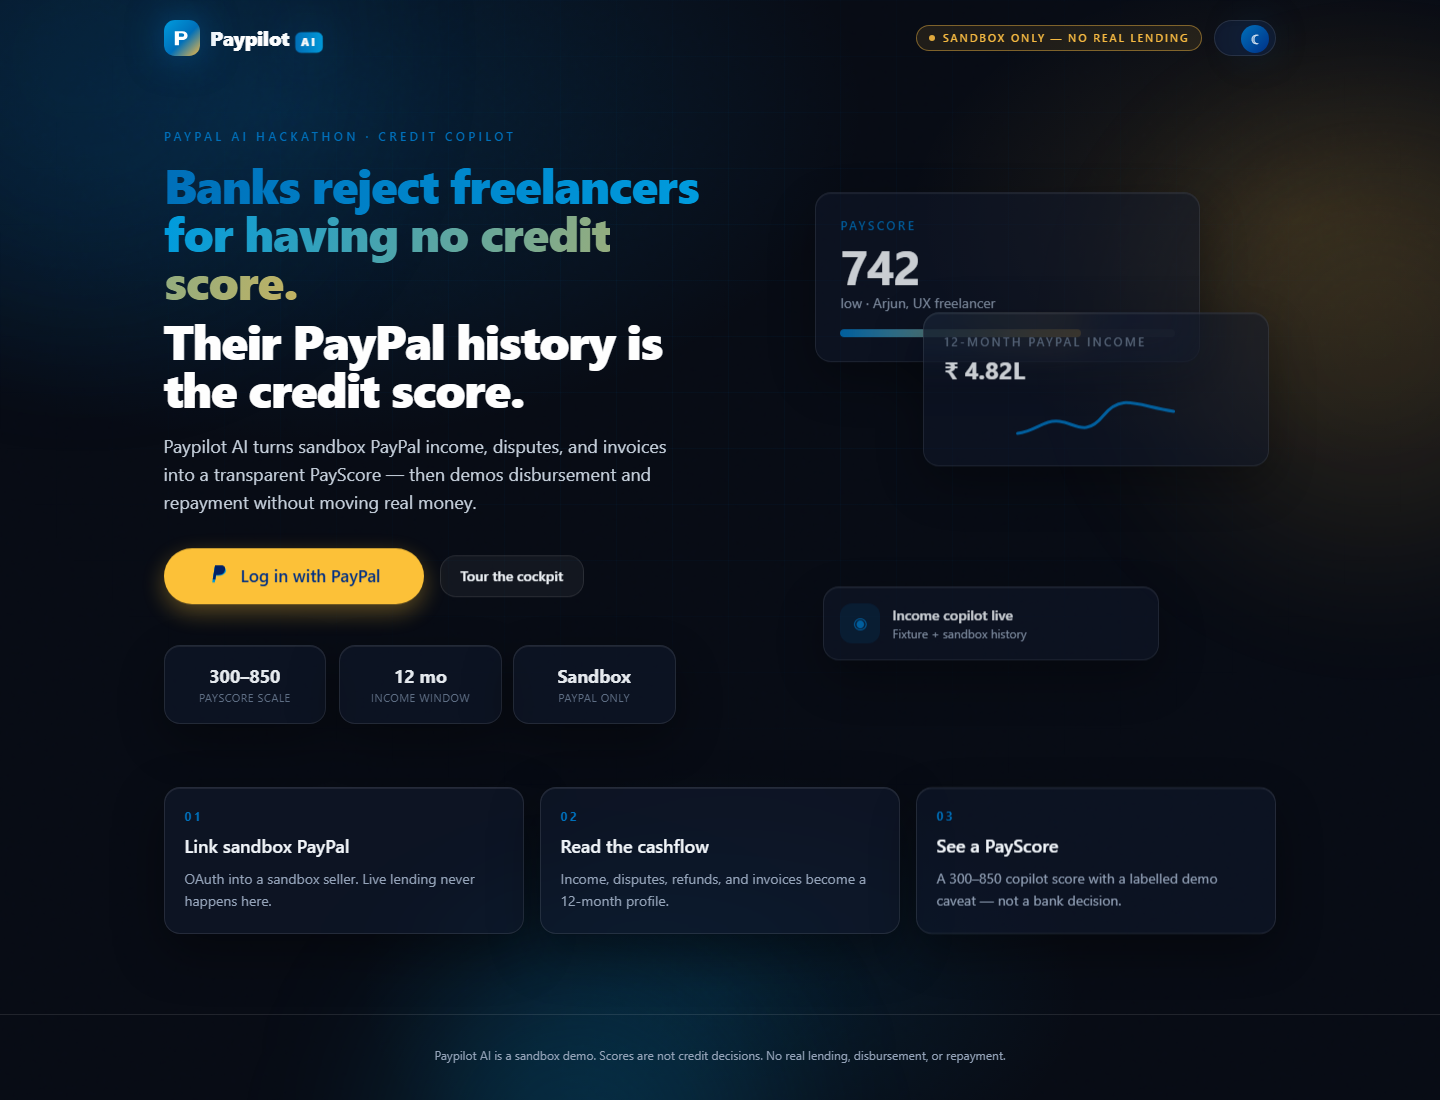
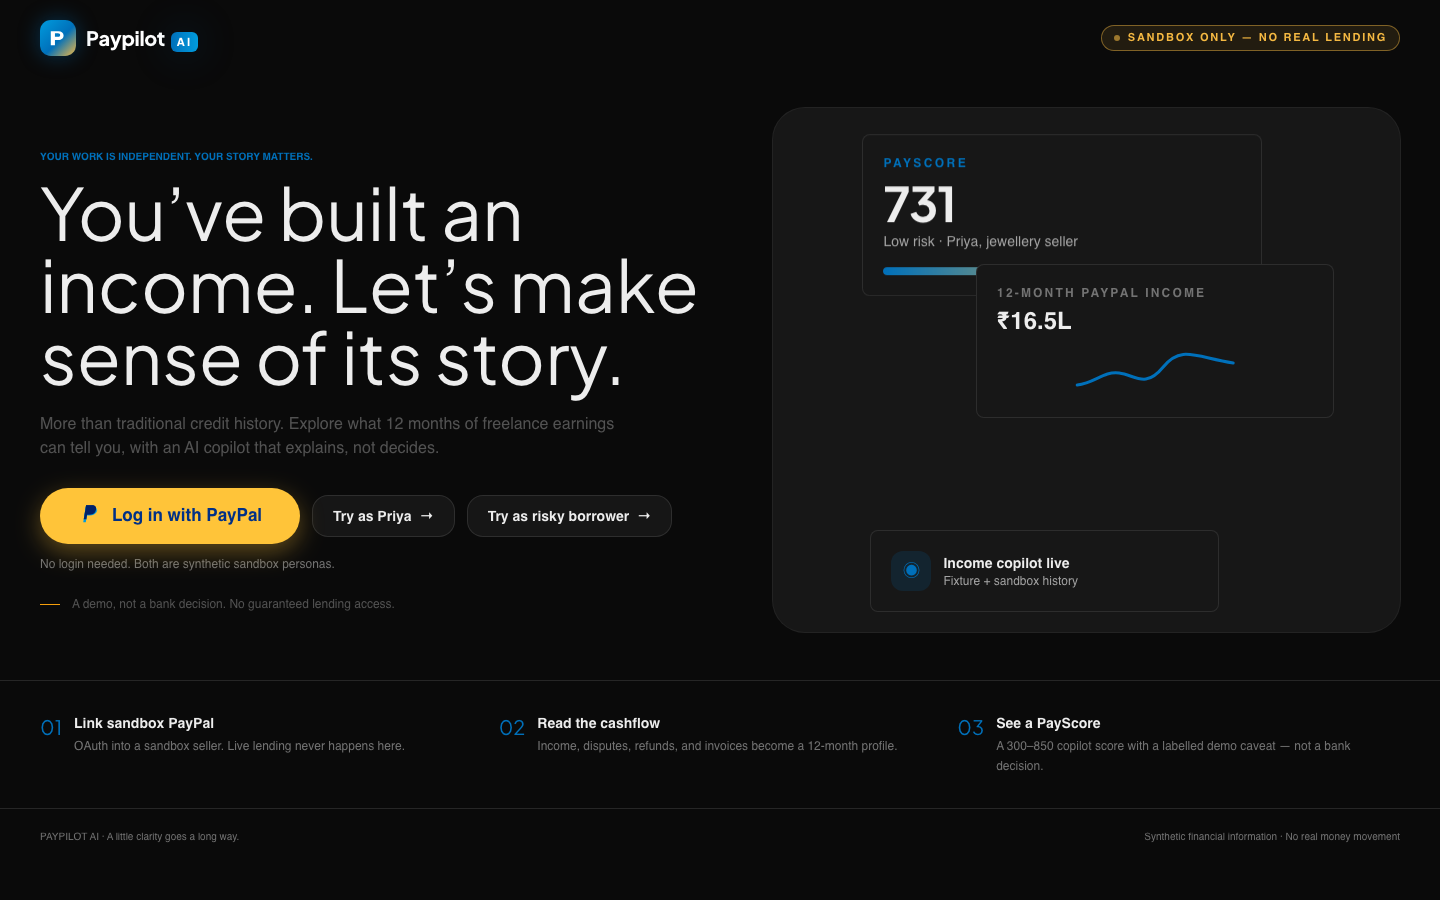
README: YouTube demo link, screenshots, live persona links

diff --git a/README.md b/README.md
@@ -6,15 +6,28 @@ explicit borrower approval. **Sandbox only:** synthetic personas, PayPal sandbox
 
 ## For judges
 
-* **Watch the demo:** [docs/Paypilot_demo.mp4](docs/Paypilot_demo.mp4) (2 min 50 s, voiceover, dark theme).
+* **Watch the demo:** https://youtu.be/P1mrW-ilrVQ (2 min 50 s, with voiceover)
 * **Try it live:** https://paypilot-ai-chi.vercel.app
+
+[![Paypilot demo video](https://img.youtube.com/vi/P1mrW-ilrVQ/maxresdefault.jpg)](https://youtu.be/P1mrW-ilrVQ)
+
+### Screenshots
+
+| | |
+|---|---|
+| ![Landing page with Log in with PayPal and the two demo personas](docs/screenshots/landing.png) | ![Priya's dashboard: 12-month income, clients, refunds and payment gaps](docs/screenshots/overview.png) |
+| **Landing:** log in with PayPal or try a demo persona | **Overview:** 12 months of income at a glance |
+| ![PayScore 731 with TreeSHAP drivers](docs/screenshots/payscore.png) | ![AI copilot answering an income question and asking approval before a payout](docs/screenshots/copilot.png) |
+| **PayScore:** a 300–850 score with TreeSHAP drivers | **AI copilot:** real tools, and payouts wait for approval |
+| ![Offer Guard showing an 18% advertised APR costs 27.55% a year](docs/screenshots/offer-guard.png) | ![Income Passport with a verification link](docs/screenshots/passport.png) |
+| **Offer Guard:** the real annual cost behind an advertised rate | **Income Passport:** shareable proof of income, revocable |
 
 No login is needed. Open either link to land in the demo workspace as that persona:
 
 | Persona | Link | Committed-model score |
 |---|---|---|
-| Priya Nair, stable online seller | `<frontend-url>/try/priya` | 731 (low risk) |
-| Rohan Kulkarni, risky borrower | `<frontend-url>/try/rohan` | 465 (high risk) |
+| Priya Nair, stable online seller | https://paypilot-ai-chi.vercel.app/try/priya | 731 (low risk) |
+| Rohan Kulkarni, risky borrower | https://paypilot-ai-chi.vercel.app/try/rohan | 465 (high risk) |
 
 The landing page has the same two buttons, and the top bar has a toggle to switch persona mid-demo. Switching clears
 the previous persona's score, offer, and payout state.
